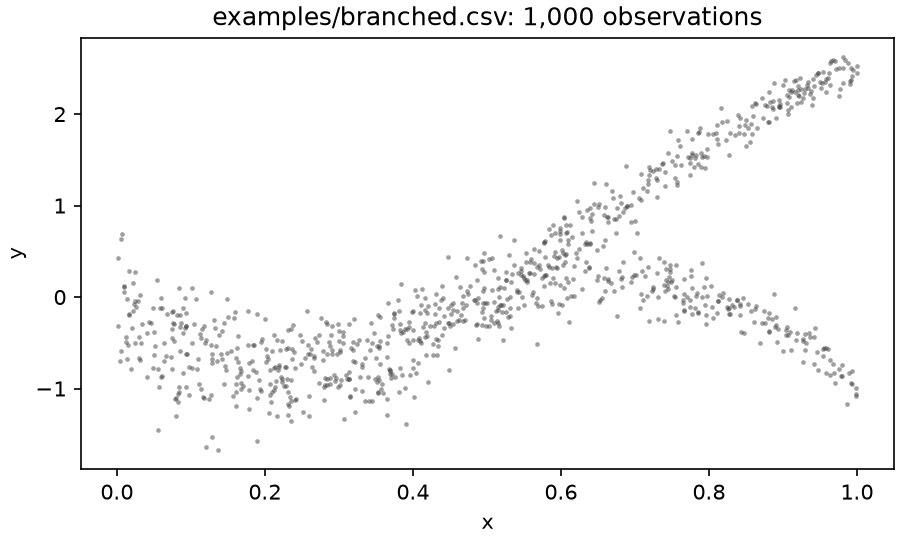
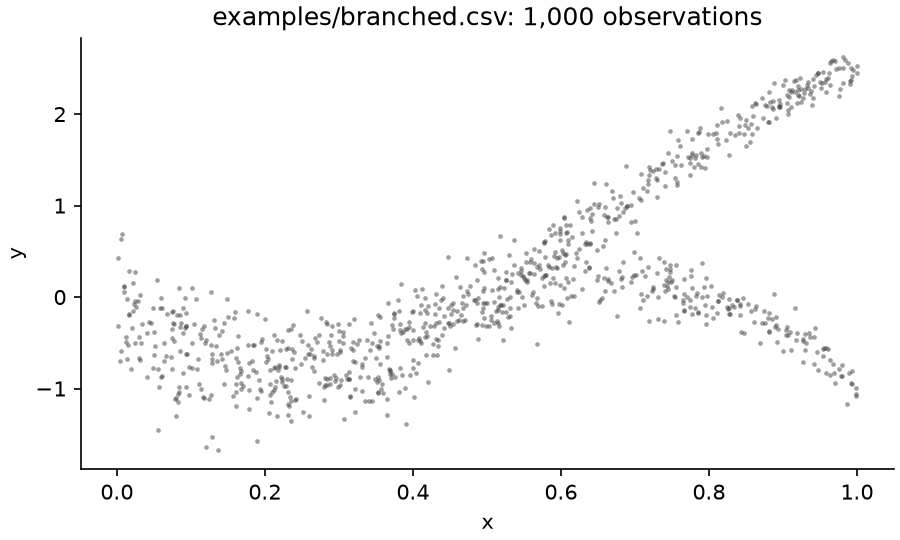
Example figure: observed data, data simulated from the estimate, true and estimated densities

Changed region(s): [[0.0933, 0.0593, 0.9956, 0.0889]]

diff --git a/examples/plot_example.py b/examples/plot_example.py
@@ -27,25 +27,32 @@ def true_density(y, x):
 fig, ax = plt.subplots(figsize=(6, 3.6), layout="constrained")
 ax.scatter(df.x, df.y, s=5, color="0.25", alpha=.5, linewidths=0)
 ax.set(xlabel="x", ylabel="y", title="examples/branched.csv: 1,000 observations")
+ax.spines[["top", "right"]].set_visible(False)
 fig.savefig(ROOT / "docs" / "example_data.png", dpi=150)
 plt.close(fig)
 
-# the estimate against the truth
-fig, axes = plt.subplots(1, 2, figsize=(11, 3.8), layout="constrained",
-                         gridspec_kw={"width_ratios": [1.15, 1]})
-gx = np.linspace(df.x.min(), df.x.max(), 150)
-gy = np.linspace(df.y.min() - .3, df.y.max() + .3, 250)
-dens = np.array([np.exp(np.asarray(fit.distribution({"x": g}).logpdf(gy))) for g in gx])
-axes[0].pcolormesh(gx, gy, (dens / dens.max(axis=1, keepdims=True)).T, cmap="Blues", shading="auto")
-axes[0].scatter(df.x, df.y, s=3, color="black", alpha=.35, linewidths=0)
-axes[0].set(xlabel="x", ylabel="y", title="Estimated conditional density (scaled at each x) and data")
-yy = np.linspace(-2.2, 2.6, 600)
-for k, x0 in enumerate([0.3, 0.8]):
-    axes[1].plot(yy, true_density(yy, x0), color=f"C{k}", lw=2.2, alpha=.45, label=f"true, x = {x0}")
-    axes[1].plot(yy, np.exp(fit.distribution({"x": x0}).logpdf(yy)), color=f"C{k}", lw=1.4, ls="--",
+# the estimate against the truth: data, draws from the estimate at the same x, and densities
+plt.rcParams.update({"axes.spines.top": False, "axes.spines.right": False, "font.size": 10})
+fig, axes = plt.subplots(1, 3, figsize=(13, 3.9), layout="constrained",
+                         gridspec_kw={"width_ratios": [1, 1, 1.1]})
+rng = np.random.default_rng(1)
+sim = np.array([float(fit.distribution({"x": v}).sample(rng, 1)[0]) for v in df.x])
+cols = {0.3: "#2a78d6", 0.8: "#d55181"}
+for ax, yv, title in zip(axes[:2], (df.y, sim), ("Observed data", "Simulated from the ADR estimate")):
+    ax.scatter(df.x, yv, s=5, color="0.3", alpha=.45, linewidths=0)
+    for x0, c in cols.items():
+        ax.axvline(x0, color=c, ls="--", lw=1.2)
+    ax.set(xlabel="x", ylabel="y", title=title, ylim=(-2, 3))
+axes[1].sharey(axes[0])
+yy = np.linspace(-2, 3, 600)
+for x0, c in cols.items():
+    axes[2].plot(yy, true_density(yy, x0), color=c, lw=4, alpha=.3, label=f"true, x = {x0}")
+    axes[2].plot(yy, np.exp(fit.distribution({"x": x0}).logpdf(yy)), color=c, lw=1.6,
                  label=f"ADR, x = {x0}")
-axes[1].set(xlabel="y", ylabel="conditional density", title="True and estimated densities")
-axes[1].legend(frameon=False, fontsize=8)
+axes[2].set(xlabel="y", ylabel="conditional density of y given x",
+            title="True and estimated densities")
+axes[2].set_ylim(0, 2.0)
+axes[2].legend(frameon=False, fontsize=9, ncol=2, loc="upper center")
 fig.savefig(ROOT / "docs" / "example_fit.png", dpi=150)
 plt.close(fig)
 print("wrote docs/example_data.png and docs/example_fit.png")

diff --git a/adr/evaluate.py b/adr/evaluate.py
@@ -168,8 +168,8 @@ def plots(run_dir, model, X, y, Xte, yte, pit, cov_names, resp_names, seed=0,
             gy = np.linspace(y.min() - pad, y.max() + pad, 250)
             vals = np.array([np.exp(np.asarray(model(np.array([g])).logpdf(gy))) for g in gx])
             vals = vals / np.maximum(vals.max(axis=1, keepdims=True), 1e-300)
-            title = ("Continuous part of the estimated density" if mode == "mixed"
-                     else "Estimated conditional density") + "\n(scaled to 1 at each x)"
+            title = ("Continuous part of the estimated conditional density" if mode == "mixed"
+                     else "Estimated conditional density of y given x") + "\n(darker = more probable at that x)"
         panels = 2 if mode == "mixed" else 1
         fig, axes = plt.subplots(panels, 1, figsize=(6, 4 if panels == 1 else 6), squeeze=False,
                                  sharex=True, layout="constrained",

diff --git a/README.md b/README.md
@@ -106,9 +106,10 @@ On the 200 held-out rows:
 | normal, no covariates | 1.380 |
 
 and the central 50% and 90% intervals cover 49.5% and 89.0% of the held-out responses. Since the
-data are simulated, the estimate can be compared with the truth: the estimated density follows
-the trunk and the two branches (left), and at x = 0.3, where the law has one mode, and at x = 0.8,
-where it has two, the estimated densities are close to the true ones (right).
+data are simulated, the estimate can also be compared with the truth. Responses simulated from
+the estimate, one at each observed x (center), look like the observed data (left); and at
+x = 0.3, where the law has one mode, and at x = 0.8, where it has two (dashed lines), the
+estimated densities are close to the true ones (right).
 
 ![Estimated and true conditional densities](docs/example_fit.png)
 
